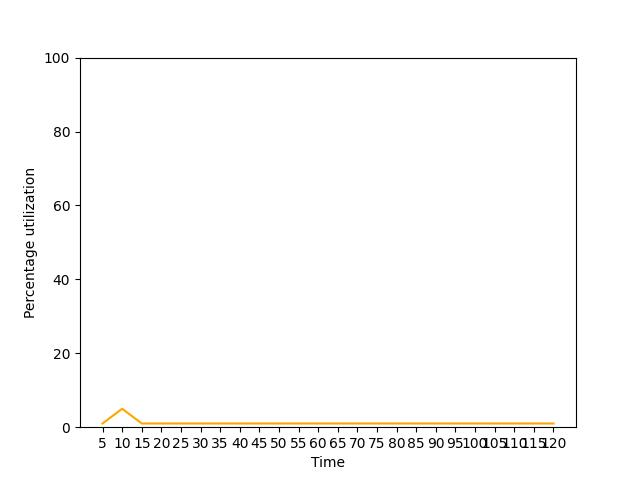
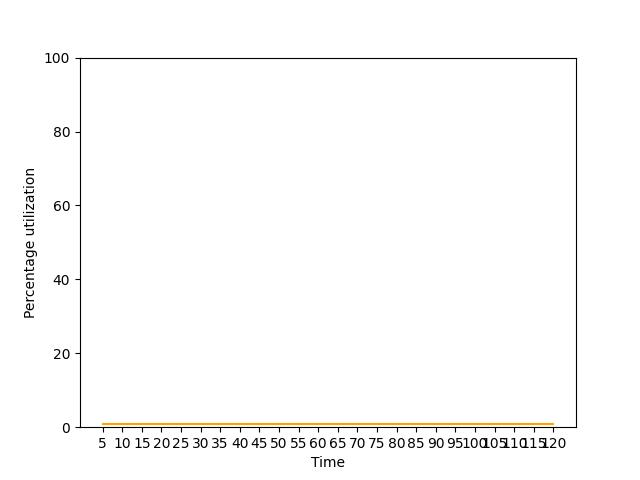
Detected changes and pushed through NMgithub.py

Changed region(s): [[0.1562, 0.8438, 0.875, 0.9062]]

diff --git a/lab5/code/NMsnmp.py b/lab5/code/NMsnmp.py
@@ -11,7 +11,7 @@ def plotGraph(key, value):
     time_intr = []
     cpu = []
 
-    for i in range(1,25):
+    for i in range(1,2):
         cpu_stat = sesh.get('1.3.6.1.4.1.9.9.109.1.1.1.1.6.1').value
         time_intr.append(i*5)
         cpu.append(int(cpu_stat)+1)

diff --git a/lab5/code/NMgithub.py b/lab5/code/NMgithub.py
@@ -1,7 +1,7 @@
 from git import Repo, Git
 
 try:
-    rep_path = "/home/student/Desktop/netman/git/NetMan/lab5/code"
+    rep_path = "/home/student/Desktop/netman/git/NetMan"
     repo = Repo(rep_path)
     git = Git(rep_path)
     repo.git.add(update=True)
